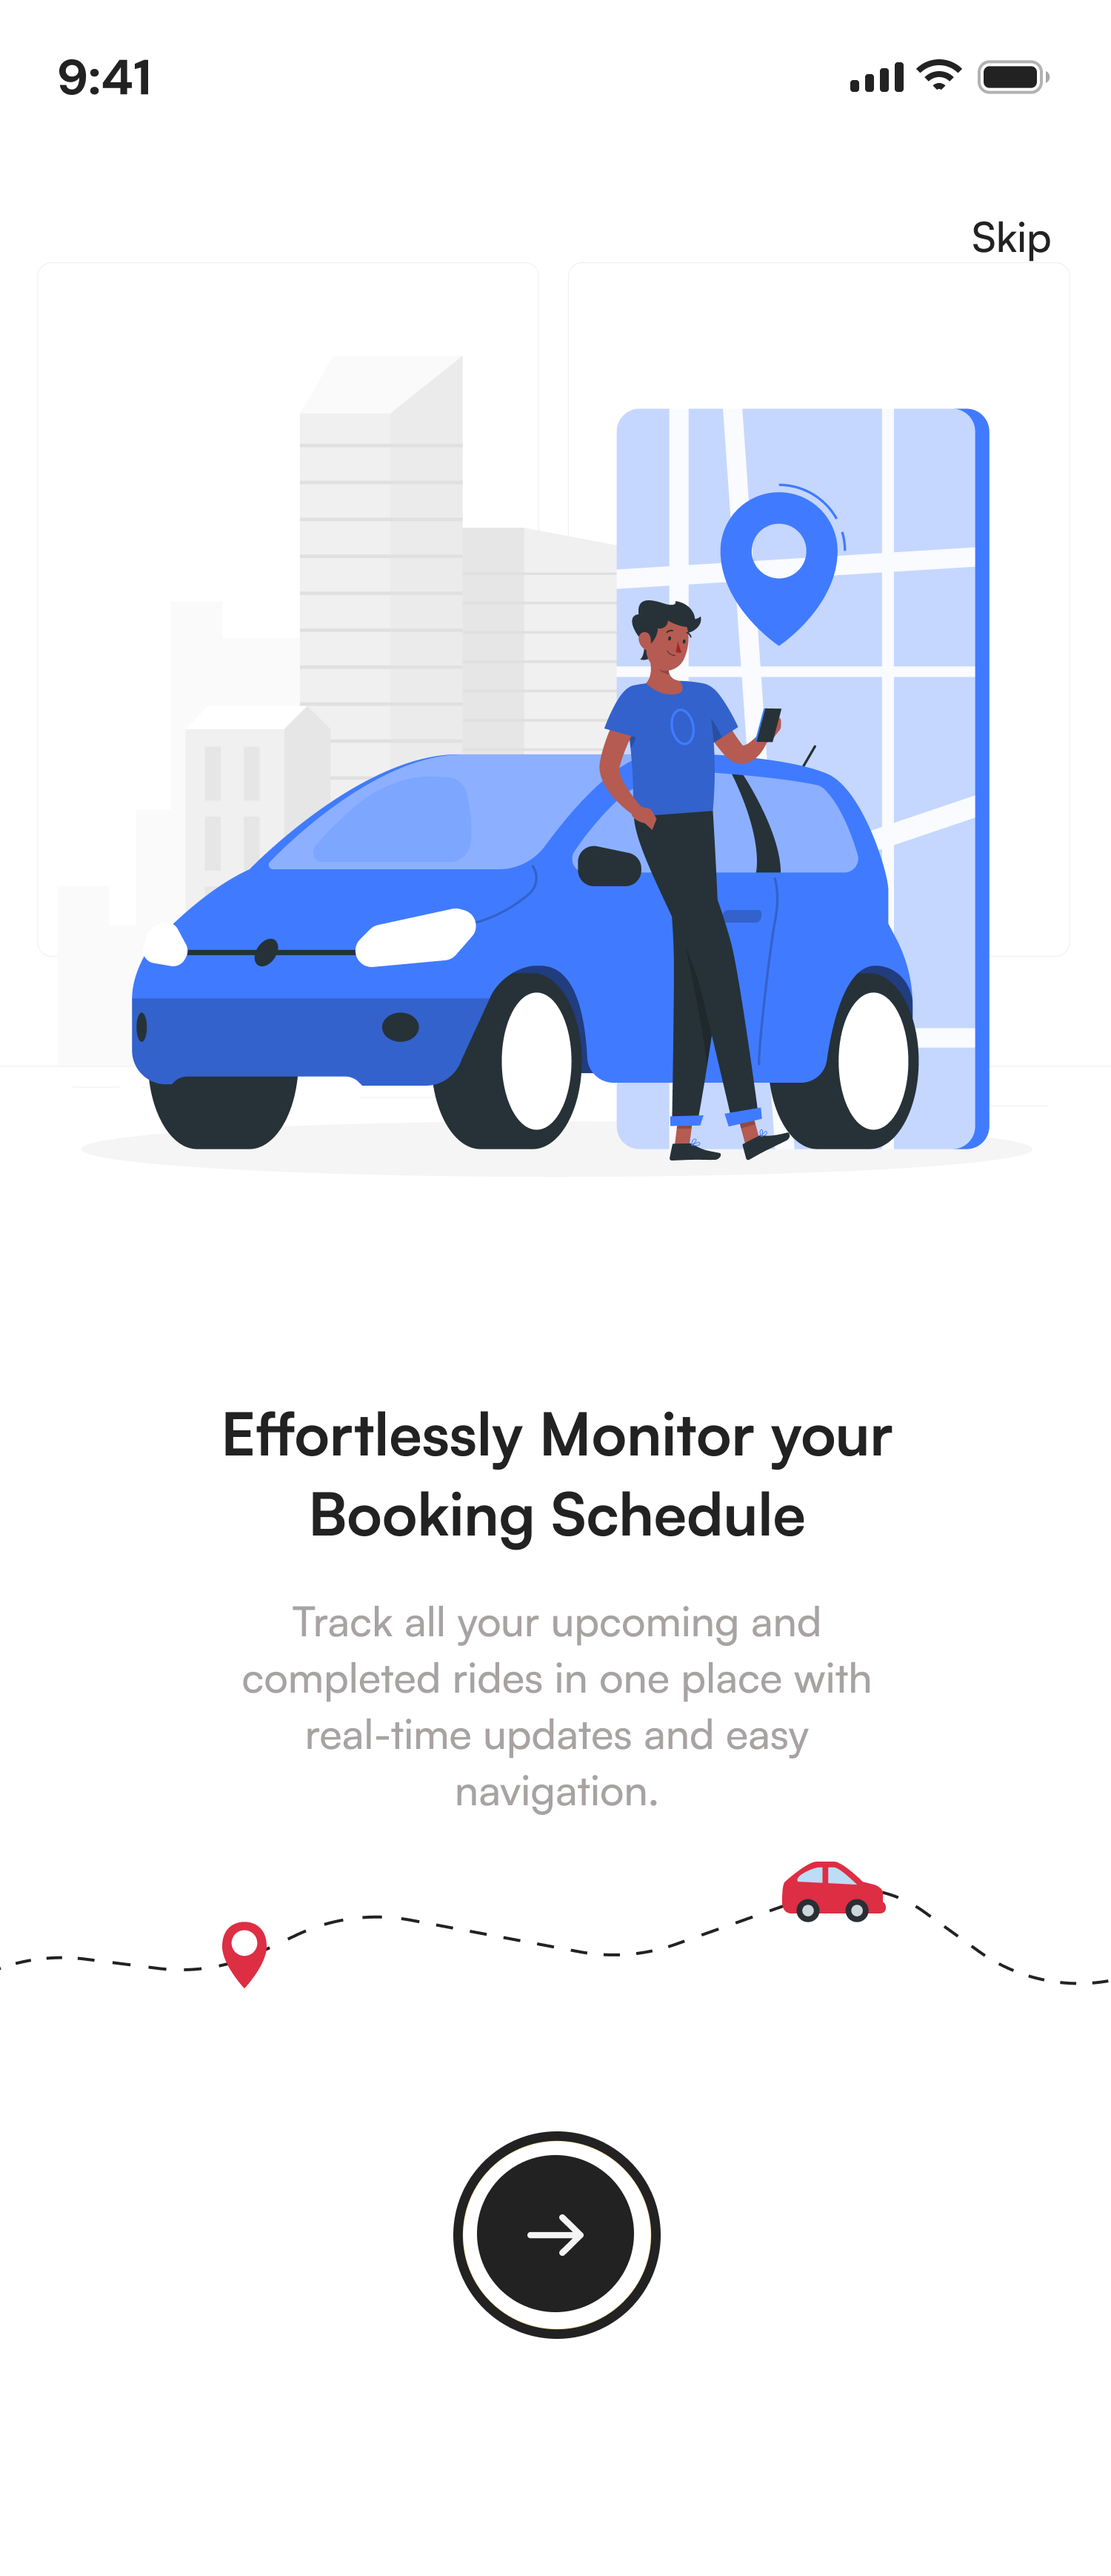
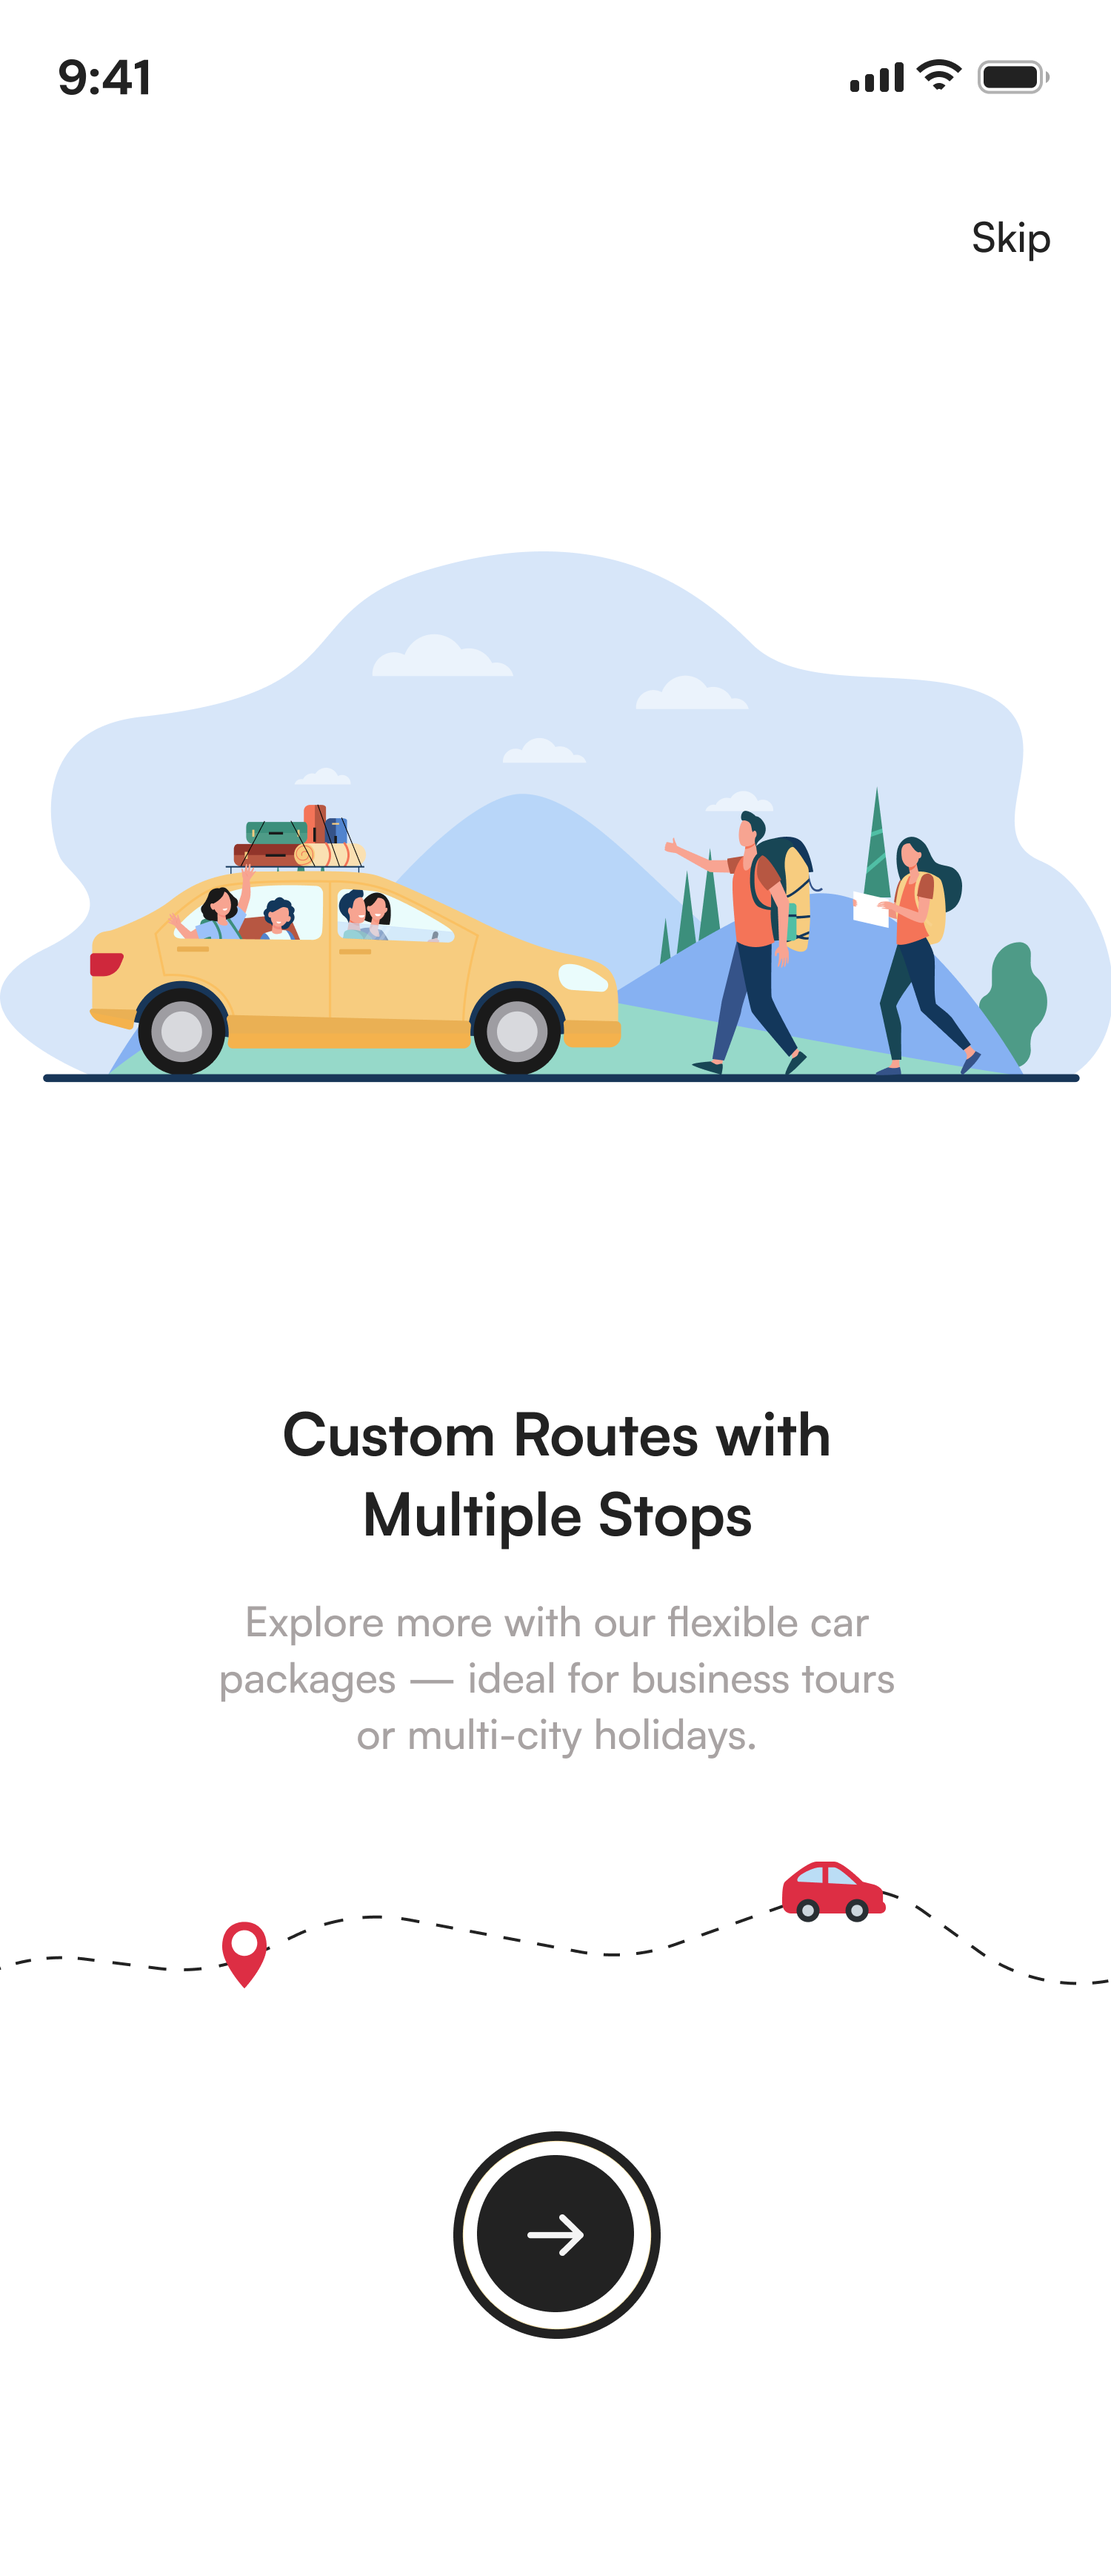
change images

Changed region(s): [[0.0, 0.1554, 1.0, 0.4661], [0.184, 0.5282, 0.7973, 0.7146]]

diff --git a/src/Pages/Home/Screenshot.jsx b/src/Pages/Home/Screenshot.jsx
@@ -4,11 +4,15 @@ import "slick-carousel/slick/slick-theme.css";
 import screenshot1 from '../../assets/Image/Onboarding screen - 1.png';
 import screenshot2 from '../../assets/Image/Onboarding screen - 2.png';
 import screenshot3 from '../../assets/Image/Onboarding screen - 3.png';
-import screenshot4 from '../../assets/Image/Log In.png';
-import screenshot5 from '../../assets/Image/OTP Verification.png';
-import screenshot6 from '../../assets/Image/Create an account.png';
-import screenshot7 from '../../assets/Image/Enable your Location.png';
-import screenshot8 from '../../assets/Image/My Rides - Completed.png';
+import screenshot4 from '../../assets/Image/Enable your Location.png';
+import screenshot5 from '../../assets/Image/Create an account.png';
+import screenshot6 from '../../assets/Image/Log In.png';
+import screenshot7 from '../../assets/Image/OTP Verification.png';
+import screenshot8 from '../../assets/Image/Homescreen.png';
+import screenshot9 from '../../assets/Image/City packages - Choose a ride.png';
+import screenshot10 from '../../assets/Image/Book taxi.png';
+import screenshot11 from '../../assets/Image/Book Taxi - Choose a ride.png';
+import screenshot12 from '../../assets/Image/Homescreen.png';
 import Slider from 'react-slick';
 
 const Screenshot = () => {
@@ -49,7 +53,8 @@ const Screenshot = () => {
 
     const images = [
         screenshot1, screenshot2, screenshot3, screenshot4,
-        screenshot5, screenshot6, screenshot7, screenshot8
+        screenshot5, screenshot6, screenshot7, screenshot8,
+        screenshot9, screenshot10, screenshot11, screenshot12
     ];
 
     return (
@@ -57,15 +62,15 @@ const Screenshot = () => {
             <div className="container mx-auto">
                 <div className="grid grid-cols-1">
                     <div className="col-span-1 text-center">
-                        <h2 className="md:text-4xl text-2xl font-bold text-gray-800 mb-6">How It Works</h2>
+                        <h2 className="md:text-4xl text-2xl font-bold text-gray-800 md:mb-6 mb-3">How It Works</h2>
                     </div>
                 </div>
-                <div className="my-6">
+                <div className="md:my-6 my-3">
                     <Slider {...settings}>
                         {images.map((image, index) => (
                             <div key={index} className="px-3">
                                 <div className="bg-white rounded-[22px] overflow-hidden shadow">
-                                    <img src={image} alt={`screenshot-${index + 1}`} className="w-full h-[595px]" />
+                                    <img src={image} alt={`screenshot-${index + 1}`} className="w-full h-auto" />
                                 </div>
                             </div>
                         ))}
